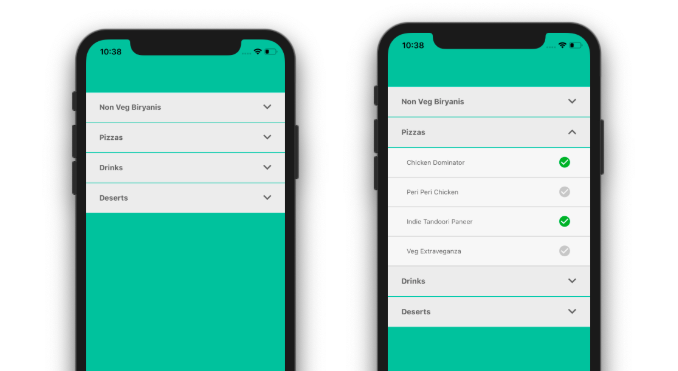
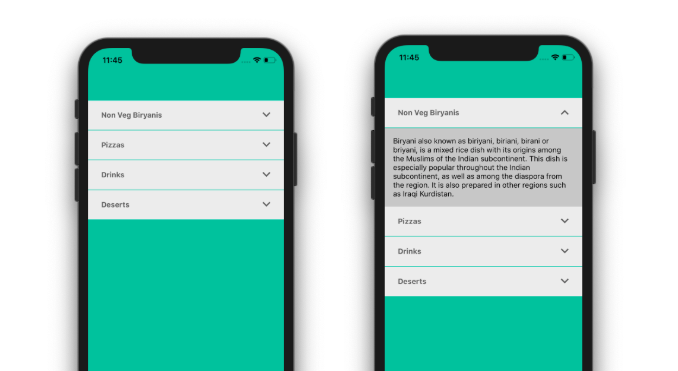
Simple Accoridan

Changed region(s): [[0.5265, 0.0593, 0.9292, 1.0], [0.0929, 0.0593, 0.4646, 1.0]]

diff --git a/App.js b/App.js
@@ -8,41 +8,22 @@ export default class App extends Component {
   constructor(props) {
     super(props);
     this.state = {
-      locations :[
+      menu :[
         { 
           title: 'Non Veg Biryanis', 
-          data: [
-            {key:'Chicken Biryani', value:'false'},
-            {key:'Mutton Biryani', value:'false'},
-            {key:'Prawns Biryani', value:'false'},
-          ] 
+          data: 'Biryani also known as biriyani, biriani, birani or briyani, is a mixed rice dish with its origins among the Muslims of the Indian subcontinent. This dish is especially popular throughout the Indian subcontinent, as well as among the diaspora from the region. It is also prepared in other regions such as Iraqi Kurdistan.',
         },
         { 
           title: 'Pizzas',
-          data: [
-            {key:'Chicken Dominator', value:'false'},
-            {key:'Peri Peri Chicken', value:'false'},
-            {key:'Indie Tandoori Paneer', value:'false'},
-            {key:'Veg Extraveganza', value:'false'}
-          ]
+          data: 'Pizza is a savory dish of Italian origin, consisting of a usually round, flattened base of leavened wheat-based dough topped with tomatoes, cheese, and various other ingredients (anchovies, olives, meat, etc.) baked at a high temperature, traditionally in a wood-fired oven. In formal settings, like a restaurant, pizza is eaten with knife and fork, but in casual settings it is cut into wedges to be eaten while held in the hand. Small pizzas are sometimes called pizzettas.'
         },
         { 
          title: 'Drinks',
-         data: [
-           {key:'Cocktail',value:'false'},
-           {key:'Mocktail',value:'false'},
-           {key:'Lemon Soda',value:'false'},
-           {key:'Orange Soda', value:'false'}
-          ]
+         data: 'A drink (or beverage) is a liquid intended for human consumption. In addition to their basic function of satisfying thirst, drinks play important roles in human culture. Common types of drinks include plain drinking water, milk, coffee, tea, hot chocolate, juice and soft drinks. In addition, alcoholic drinks such as wine, beer, and liquor, which contain the drug ethanol, have been part of human culture for more than 8,000 years.'
         },
         { 
           title: 'Deserts',
-          data: [
-            {key:'Choco Lava Cake', value:'false'},
-            {key:'Gulabjamun', value:'false'},
-            {key:'Kalajamun', value:'false'},
-            {key:'Jalebi', value:'false'}
-          ]
+          data: 'A dessert is typically the sweet course that concludes a meal in the culture of many countries, particularly Western culture. The course usually consists of sweet foods, but may include other items. The word "dessert" originated from the French word desservir "to clear the table" and the negative of the Latin word servire'
         },
       ]
      }
@@ -58,7 +39,7 @@ export default class App extends Component {
 
   renderAccordians=()=> {
     const items = [];
-    for (item of this.state.locations) {
+    for (item of this.state.menu) {
         items.push(
             <Accordian 
                 title = {item.title}

diff --git a/app/Accordian.js b/app/Accordian.js
@@ -1,5 +1,5 @@
 import React, {Component} from 'react';
-import { View, TouchableOpacity, Text, FlatList, StyleSheet} from "react-native";
+import { View, TouchableOpacity, Text, StyleSheet} from "react-native";
 import { Colors } from './Colors';
 import Icon from "react-native-vector-icons/MaterialIcons";
 
@@ -24,20 +24,8 @@ export default class Accordian extends Component{
             <View style={styles.parentHr}/>
             {
                 this.state.expanded &&
-                <View style={{}}>
-                    <FlatList
-                    data={this.state.data}
-                    numColumns={1}
-                    scrollEnabled={false}
-                    renderItem={({item, index}) => 
-                        <View>
-                            <TouchableOpacity style={[styles.childRow, styles.button, item.value ? styles.btnInActive : styles.btnActive]} onPress={()=>this.onClick(index)}>
-                                <Text style={[styles.font, styles.itemInActive]} >{item.key}</Text>
-                                <Icon name={'check-circle'} size={24} color={ item.value ? Colors.LIGHTGRAY : Colors.GREEN} />
-                            </TouchableOpacity>
-                            <View style={styles.childHr}/>
-                        </View>
-                    }/>
+                <View style={styles.child}>
+                    <Text>{this.props.data}</Text>    
                 </View>
             }
             
@@ -121,6 +109,10 @@ const styles = StyleSheet.create({
     },
     colorInActive:{
         borderColor: Colors.DARKGRAY,
+    },
+    child:{
+        backgroundColor: Colors.LIGHTGRAY,
+        padding:16,
     }
     
 });
